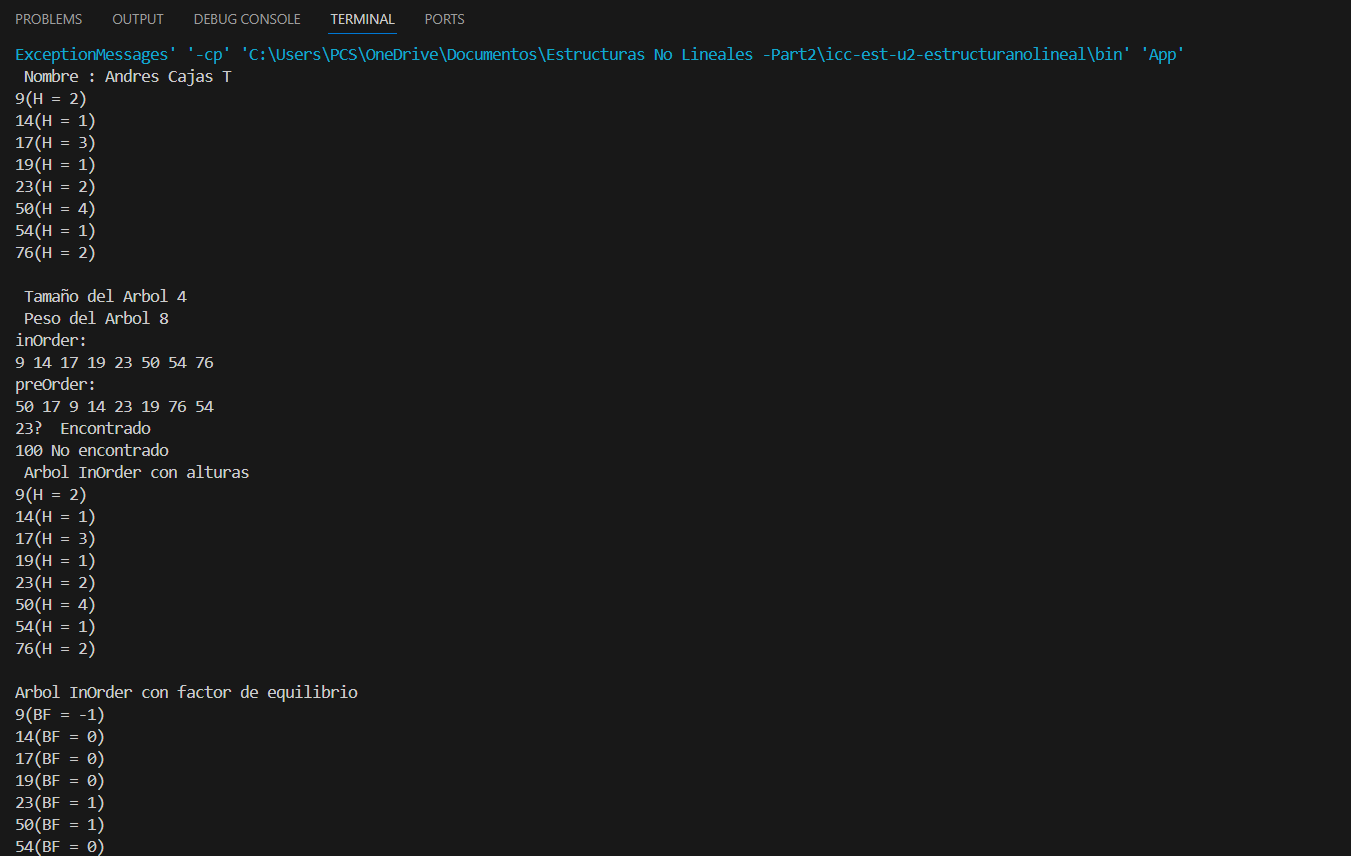
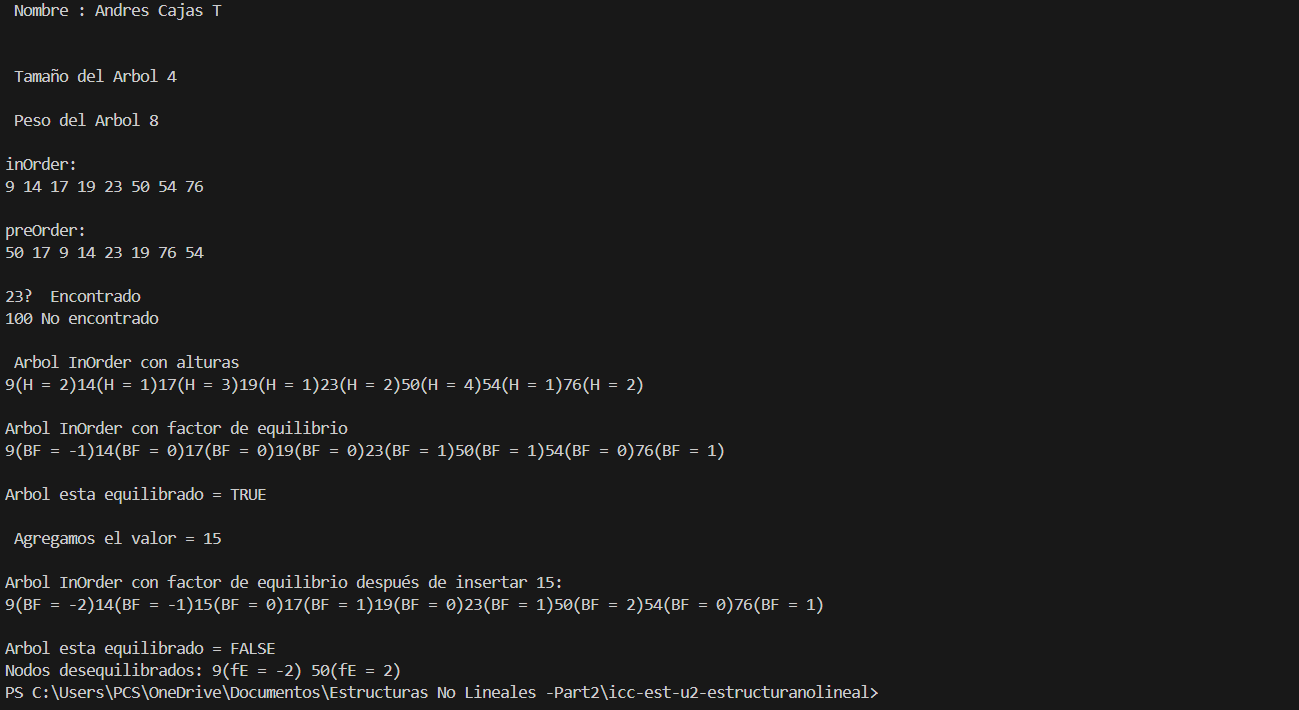
LISTO EL README IMPLEMENTS

diff --git a/src/App.java b/src/App.java
@@ -16,17 +16,22 @@ public class App {
 
         
         System.out.println(" Nombre : Andres Cajas T");
-
-        ab.imprimirArbol();
+        System.out.println();
+        
+        System.out.println();
         System.out.println(" Tamaño del Arbol " + ab.getHeight());
+        System.out.println();
         System.out.println(" Peso del Arbol " + ab.peso());
-
+        System.out.println();
+    
        
         System.out.println("inOrder:");
         ab.inOrderTraversal();
+        System.out.println();
 
         System.out.println("preOrder:");
         ab.preOrderTraversal();
+        System.out.println();
 
        
         int valorBuscado = 23;
@@ -34,20 +39,24 @@ public class App {
 
         valorBuscado = 100;
         System.out.println(valorBuscado + (ab.buscar(valorBuscado) ? " Encontrado" : " No encontrado "));
+        System.out.println();
 
         
         System.out.println(" Arbol InOrder con alturas");
         ab.imprimirArbol();
+        System.out.println();
 
         
         System.out.println("Arbol InOrder con factor de equilibrio");
         ab.imprimirBf();
+        System.out.println();
 
         System.out.println("Arbol esta equilibrado = " + String.valueOf(ab.arbolEquilibrio()).toUpperCase());
 
         if (!ab.arbolEquilibrio()) {
             ab.imprimirNodosDesequilibrados();
         }
+        System.out.println();
 
         
         System.out.println(" Agregamos el valor = 15 ");
@@ -55,6 +64,7 @@ public class App {
 
         System.out.println("\nArbol InOrder con factor de equilibrio después de insertar 15:");
         ab.imprimirBf();
+        System.out.println();
 
         System.out.println("Arbol esta equilibrado = " + String.valueOf(ab.arbolEquilibrio()).toUpperCase());
 

diff --git a/src/Materia/controllers/ArbolBinario.java b/src/Materia/controllers/ArbolBinario.java
@@ -58,7 +58,7 @@ public class ArbolBinario {
     private void imprimir(Node node) {
         if (node != null) {
             imprimir(node.getLeft());
-            System.out.println(node.getValue() + "(H = " + getHeightRec(node) + ")");
+            System.out.print(node.getValue() + "(H = " + getHeightRec(node) + ")");
             imprimir(node.getRight());
         }
     }
@@ -72,7 +72,7 @@ public class ArbolBinario {
         if (node != null) {
             imprimirBFRec(node.getLeft());
             int bf = factorEquilibrioRec(node);
-            System.out.println(node.getValue() + "(BF = " + bf + ")");
+            System.out.print(node.getValue() + "(BF = " + bf + ")");
             imprimirBFRec(node.getRight());
         }
     }

diff --git a/README.md b/README.md
@@ -1,3 +1,4 @@
 ## RESULTADO
 
-![resultado de ejecucion](Resultado1.png)(Resultado2.png)
+![Resultado de ejecucion 1](Resultado1.png)  
+![Resultado de ejecucion 2](Resultado2.png)
